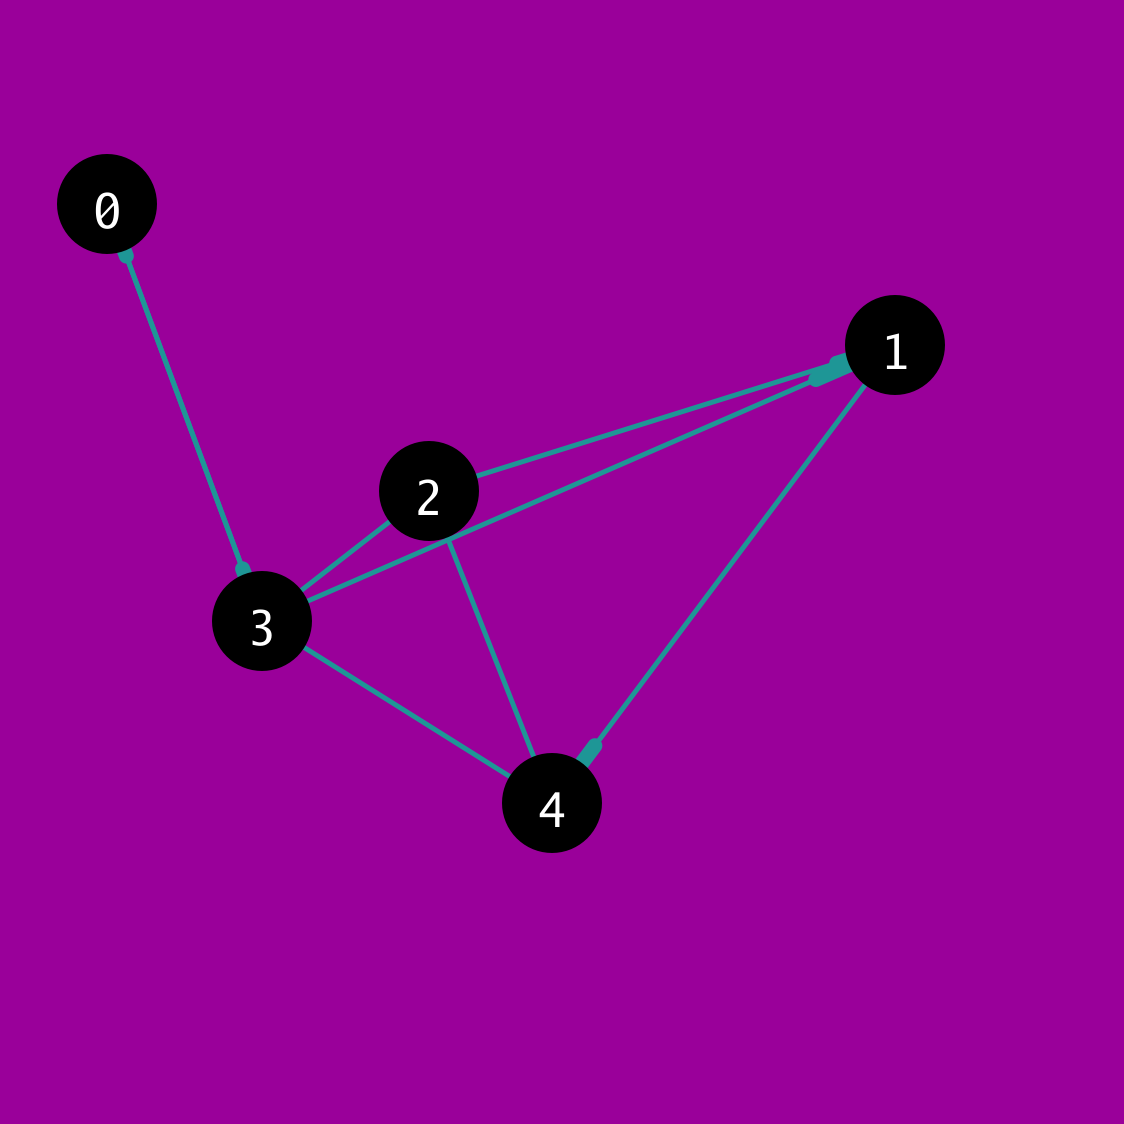
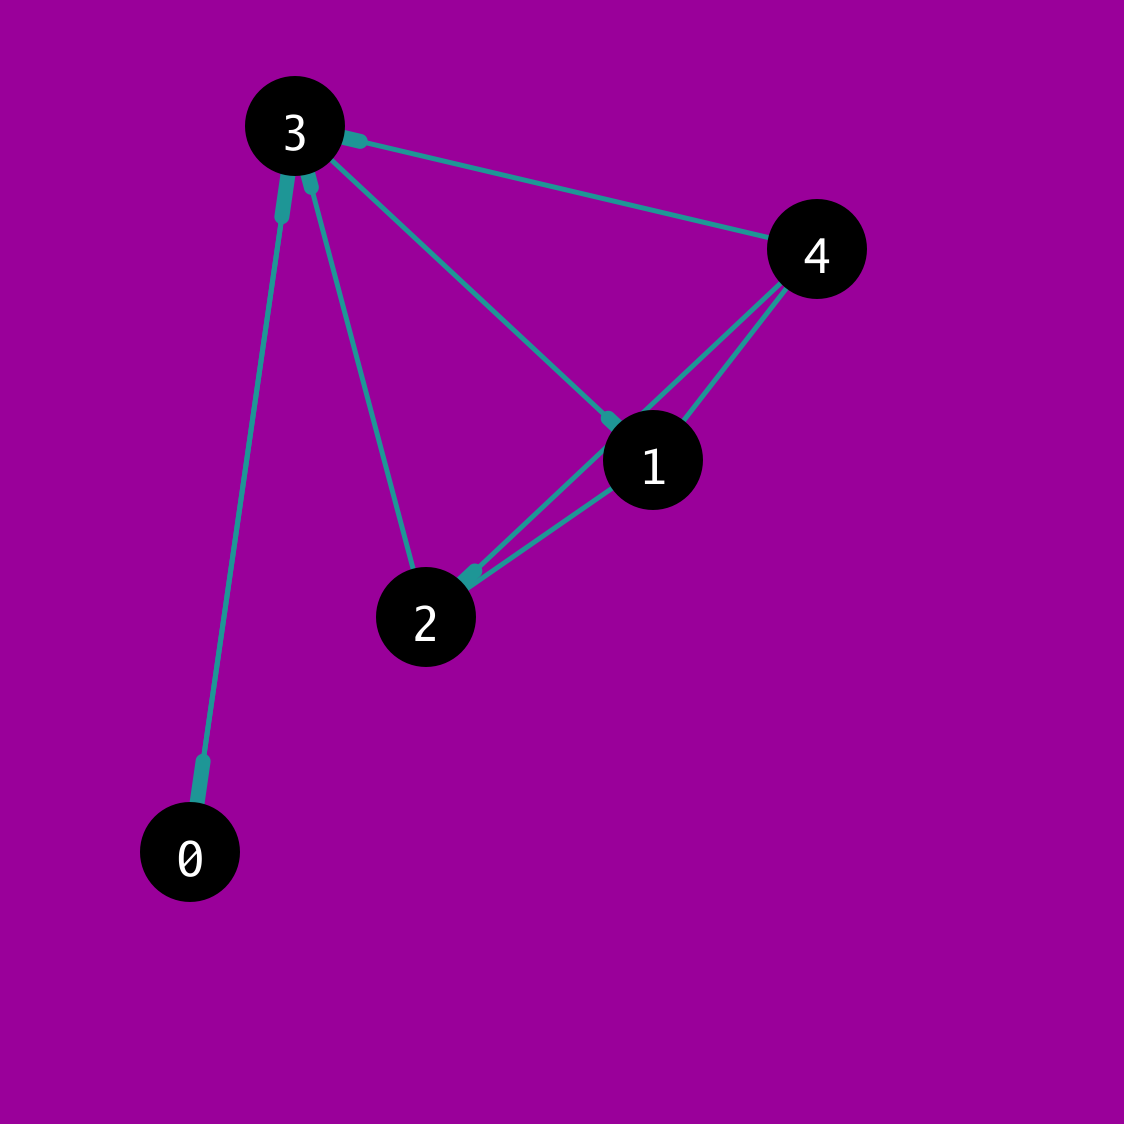
working for second lab

diff --git a/main.go b/main.go
@@ -12,6 +12,190 @@ import (
 	"golang.org/x/image/font/gofont/goregular"
 )
 
+var w, h int = 1024, 1024
+
+func reflecsive(r [5][5]int) bool {
+	for i := 0; i < 5; i++ {
+		for j := 0; j < 5; j++ {
+			if i == j {
+				if r[i][j] != 1 {
+					return false
+				}
+			}
+		}
+	}
+	return true
+}
+
+func antyreflecsive(r [5][5]int) bool {
+	for i := 0; i < 5; i++ {
+		for j := 0; j < 5; j++ {
+			if i == j {
+				if r[i][j] != 0 {
+					return false
+				}
+			}
+		}
+	}
+	return true
+}
+
+func symmetrical(r [5][5]int) bool {
+	for i := 0; i < 5; i++ {
+		for j := 0; j < 5; j++ {
+			if r[i][j] != r[j][i] {
+				return false
+			}
+		}
+	}
+	return true
+}
+
+func asymmetrical(r [5][5]int) bool {
+	for i := 0; i < 5; i++ {
+		for j := 0; j < 5; j++ {
+
+			if r[i][j] == 1 && r[j][i] == 1 {
+				return false
+			}
+		}
+	}
+	return true
+}
+
+func antysymmetrical(r [5][5]int) bool {
+	for i := 0; i < 5; i++ {
+		for j := 0; j < 5; j++ {
+			if i != j {
+				if r[i][j] == 1 && r[j][i] == 1 {
+					return false
+				}
+			}
+		}
+	}
+	return true
+}
+
+// x4 x5
+func main() {
+	r := [5][5]int{
+		{0, 0, 1, 1, 0},
+		{0, 0, 1, 1, 0},
+		{1, 1, 0, 1, 1},
+		{1, 1, 1, 0, 1},
+		{0, 0, 1, 1, 0}}
+	draw(r, "r")
+
+	fmt.Println("Рефлексивність")
+	fmt.Println(reflecsive(r))
+
+	fmt.Println("Антирефлексивність")
+	fmt.Println(antyreflecsive(r))
+
+	fmt.Println("Симетричність")
+	fmt.Println(symmetrical(r))
+
+	fmt.Println("Acиметричність")
+	fmt.Println(asymmetrical(r))
+
+	fmt.Println("Aнтиcиметричність")
+	fmt.Println(antysymmetrical(r))
+}
+
+func draw(r [5][5]int, filename string) {
+	dc := gg.NewContext(w+100, h+100)
+	dc.DrawRectangle(0, 0, float64(w+100), float64(h+100))
+	dc.SetRGB(102, 0, 102)
+	dc.Fill()
+
+	font, err := truetype.Parse(goregular.TTF)
+	if err != nil {
+		log.Fatal(err)
+	}
+
+	face := truetype.NewFace(font, &truetype.Options{Size: 48})
+	dc.SetFontFace(face)
+
+	drawNodes(r, dc)
+	dc.SavePNG(fmt.Sprint(filename, ".png"))
+}
+
+type node struct {
+	x, y float64
+}
+
+func drawNodes(r [5][5]int, dc *gg.Context) {
+	nodes := make([]node, 0, 5)
+	rand.Seed(time.Now().UnixNano())
+	for len(nodes) < 5 {
+		for {
+			x, y := float64(rand.Intn(w-200)+100), float64(rand.Intn(h-200)+100)
+			if check(nodes, x, y) {
+				nodes = append(nodes, node{x, y})
+				break
+			}
+		}
+	}
+
+	drawDirections(r, nodes, dc)
+
+	for k, v := range nodes {
+		if r[k][k] != 1 {
+			dc.DrawCircle(v.x, v.y, 50)
+			dc.SetRGB(0, 0, 0)
+			dc.Fill()
+		} else {
+			dc.DrawCircle(v.x, v.y, 50)
+			dc.SetRGB(7, 45, 239)
+			dc.Fill()
+		}
+
+		dc.SetRGB(1, 1, 1)
+		dc.DrawStringAnchored(fmt.Sprint(k), v.x, v.y, 0.5, 0.5)
+		dc.Fill()
+
+	}
+}
+
+func check(nodes []node, x, y float64) bool {
+	for _, a := range nodes {
+		if math.Abs(a.x-x) < float64(100) {
+			return false
+		} else if math.Abs(a.y-y) < float64(100) {
+			return false
+		} else if x < 50.0 || y < 50.0 {
+			return false
+		}
+	}
+	return true
+}
+
+func drawDirections(r [5][5]int, nodes []node, dc *gg.Context) {
+	for i := 0; i < 5; i++ {
+		for j := 0; j < 5; j++ {
+			if r[j][i] == 1 && i != j {
+				dc.SetRGBA(226, 106, 106, 1)
+				dc.SetLineWidth(5)
+				dc.DrawLine(nodes[i].x, nodes[i].y, nodes[j].x, nodes[j].y)
+				dc.Stroke()
+				x := (nodes[i].x + nodes[j].x) / 2
+				y := (nodes[i].y + nodes[j].y) / 2
+
+				x = (x + nodes[j].x) / 2
+				y = (y + nodes[j].y) / 2
+
+				x = (x + nodes[j].x) / 2
+				y = (y + nodes[j].y) / 2
+
+				dc.SetRGBA(226, 106, 106, 1)
+				dc.SetLineWidth(15)
+				dc.DrawLine(x, y, nodes[j].x, nodes[j].y)
+				dc.Stroke()
+			}
+		}
+	}
+}
+
 func dop(r1, r2 [5][5]int) ([5][5]int, [5][5]int) {
 	fmt.Println("Доповнення (r1,r2)")
 	for i := 0; i < 5; i++ {
@@ -217,141 +401,4 @@ func comp(r1, r2 [5][5]int) {
 		fmt.Println()
 	}
 	draw(a, "compoz")
-}
-
-var w, h int = 1024, 1024
-
-// x4 x5
-func main() {
-	r1 := [5][5]int{
-		{0, 1, 0, 1, 0},
-		{0, 0, 1, 1, 0},
-		{0, 0, 0, 0, 1},
-		{1, 0, 1, 0, 1},
-		{0, 1, 0, 0, 0}}
-	draw(r1, "r1")
-	r2 := [5][5]int{
-		{1, 0, 0, 1, 0},
-		{0, 1, 1, 1, 0},
-		{1, 0, 1, 1, 1},
-		{1, 1, 1, 1, 1},
-		{0, 1, 0, 0, 0}}
-	draw(r2, "r2")
-	a1, a2 := dop(r1, r2)
-	draw(a1, "dopovn_r1")
-	draw(a2, "dopovn_r2")
-
-	p := per(r1, r2)
-	draw(p, "peretyn")
-
-	o := ob(r1, r2)
-	draw(o, "obyednannya")
-	ri := riz(r1, r2)
-	draw(ri, "riznycya")
-	//Симетрична різниця
-	fmt.Print("Симетрична ")
-	riz(o, p)
-	draw(ri, "symm_riznycya")
-	ober(r1, r2)
-
-	comp(r1, r2)
-	fmt.Print("Двоїсте відношення (обернена з доповнення)")
-	ober(a1, a2)
-
-	zvyg(r1, r2)
-}
-
-func draw(r [5][5]int, filename string) {
-	dc := gg.NewContext(w+100, h+100)
-	dc.DrawRectangle(0, 0, float64(w+100), float64(h+100))
-	dc.SetRGB(102, 0, 102)
-	dc.Fill()
-
-	font, err := truetype.Parse(goregular.TTF)
-	if err != nil {
-		log.Fatal(err)
-	}
-
-	face := truetype.NewFace(font, &truetype.Options{Size: 48})
-	dc.SetFontFace(face)
-
-	drawNodes(r, dc)
-	dc.SavePNG(fmt.Sprint(filename, ".png"))
-}
-
-type node struct {
-	x, y float64
-}
-
-func drawNodes(r [5][5]int, dc *gg.Context) {
-	nodes := make([]node, 0, 5)
-	rand.Seed(time.Now().UnixNano())
-	nodes = append(nodes, node{x: float64(rand.Intn(w - 100)), y: float64(rand.Intn(h - 100))})
-	for len(nodes) < 5 {
-		for {
-			x, y := float64(rand.Intn(w-200)+100), float64(rand.Intn(h-200)+100)
-			if check(nodes, x, y) {
-				nodes = append(nodes, node{x, y})
-				break
-			}
-		}
-	}
-
-	drawDirections(r, nodes, dc)
-
-	for k, v := range nodes {
-		if r[k][k] != 1 {
-			dc.DrawCircle(v.x, v.y, 50)
-			dc.SetRGB(0, 0, 0)
-			dc.Fill()
-		} else {
-			dc.DrawCircle(v.x, v.y, 50)
-			dc.SetRGB(7, 45, 239)
-			dc.Fill()
-		}
-
-		dc.SetRGB(1, 1, 1)
-		dc.DrawStringAnchored(fmt.Sprint(k), v.x, v.y, 0.5, 0.5)
-		dc.Fill()
-
-	}
-}
-
-func check(nodes []node, x, y float64) bool {
-	for _, a := range nodes {
-		if math.Abs(a.x-x) < float64(100) {
-			return false
-		} else if math.Abs(a.y-y) < float64(100) {
-			return false
-		} else if x < 50.0 || y < 50.0 {
-			return false
-		}
-	}
-	return true
-}
-
-func drawDirections(r [5][5]int, nodes []node, dc *gg.Context) {
-	for i := 0; i < 5; i++ {
-		for j := 0; j < 5; j++ {
-			if r[j][i] == 1 && i != j {
-				dc.SetRGBA(226, 106, 106, 1)
-				dc.SetLineWidth(5)
-				dc.DrawLine(nodes[i].x, nodes[i].y, nodes[j].x, nodes[j].y)
-				dc.Stroke()
-				x := (nodes[i].x + nodes[j].x) / 2
-				y := (nodes[i].y + nodes[j].y) / 2
-
-				x = (x + nodes[j].x) / 2
-				y = (y + nodes[j].y) / 2
-
-				x = (x + nodes[j].x) / 2
-				y = (y + nodes[j].y) / 2
-
-				dc.SetRGBA(226, 106, 106, 1)
-				dc.SetLineWidth(15)
-				dc.DrawLine(x, y, nodes[j].x, nodes[j].y)
-				dc.Stroke()
-			}
-		}
-	}
 }
